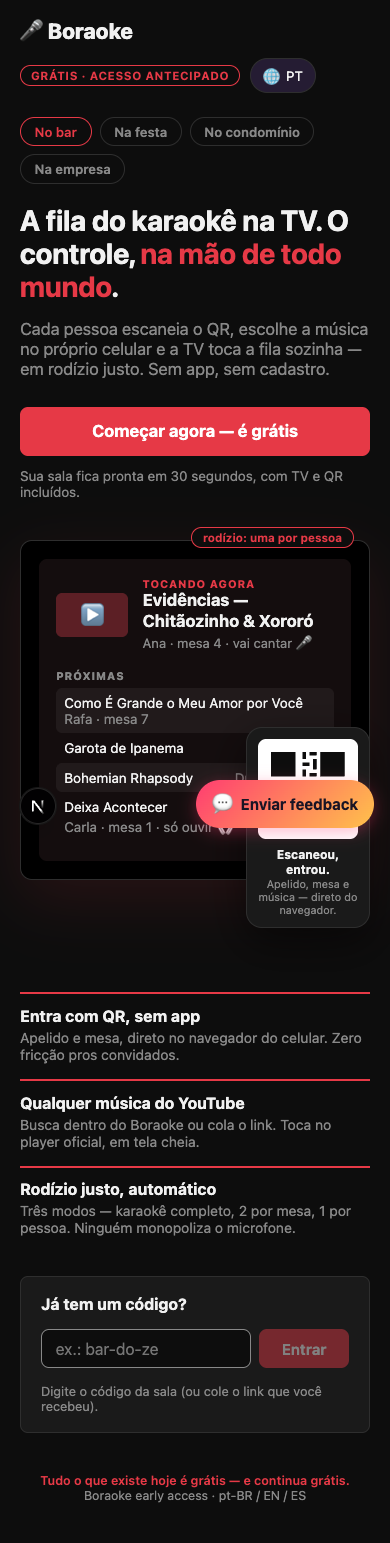
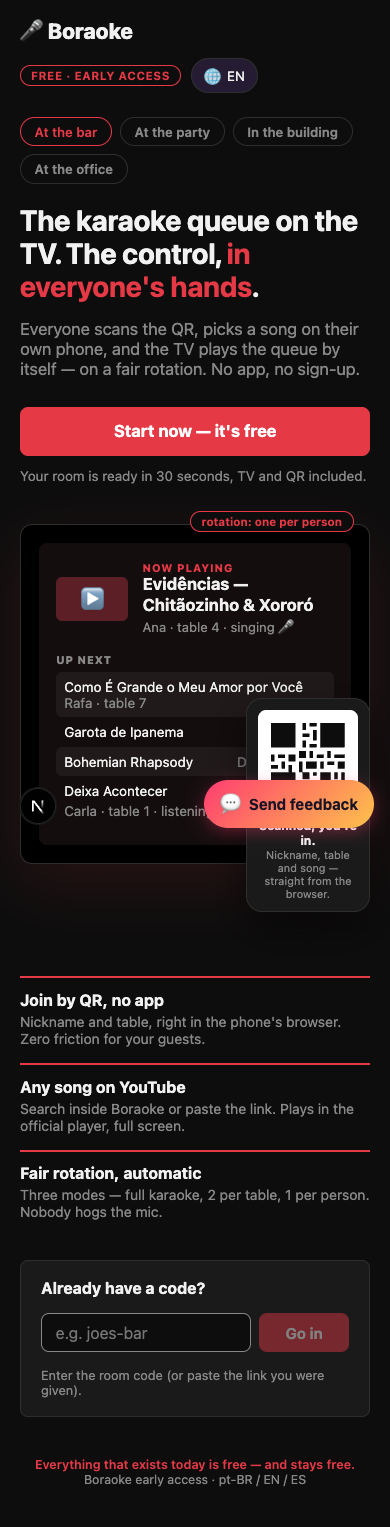
test(TICKET-69): re-verify phone-card nudge — up-next legibility partially fixed

diff --git a/work/reports/test/TICKET-69-app-tester.md b/work/reports/test/TICKET-69-app-tester.md
@@ -77,3 +77,42 @@ None blocking. One low-severity, pre-existing, out-of-scope observation:
 ## Summary
 
 Landing rebuild (Direction 2 "Demo vivo") is structurally and textually faithful to the approved mockup at both desktop and mobile breakpoints, in all three locales (pt-BR, EN, ES) with no leaked keys or untranslated pt-BR strings observed in EN/ES. No horizontal overflow at 320/390/1440px. CTA is above the fold at both tested viewports, targets `/new`, is keyboard-reachable in 2 tabs with a visible focus ring, and the landing page itself makes no YouTube network calls and renders no iframe. Saved-rooms round trip (create room → back to `/` → see it listed) and join-by-code flow both work as expected.
+
+## Re-verification after phone-card nudge (TICKET-69)
+
+Re-tested on `PORT=3181`, same worktree/branch, after the CSS follow-up in `app/page.module.css` (`.phone` bottom `-3.4rem` → `-4.75rem`, left `-2rem` → `-3rem`; `.stage` margin-bottom `2.75rem` → `5.5rem`). Verified `window.location.href` was `http://127.0.0.1:3181/...` immediately before and after every screenshot/measurement (the shared Playwright browser briefly showed a sibling agent's page — `http://localhost:3182/bar-boraoke-tour-especial/tv`, HTTP 500 — on one navigation before this run's first real capture; that stray page was never screenshotted and was immediately corrected by re-navigating to `127.0.0.1:3181/`).
+
+### Evidence overwritten
+1. `/Users/paulosalvatore/Documents/GitHub/boraoke/.worktrees/ticket-69/work/evidence/TICKET-69/landing-desktop-1440x900.png` — `/` at 1440x900, full page.
+2. `/Users/paulosalvatore/Documents/GitHub/boraoke/.worktrees/ticket-69/work/evidence/TICKET-69/desktop-cta-above-fold.png` — 1440x900 viewport-only.
+3. `/Users/paulosalvatore/Documents/GitHub/boraoke/.worktrees/ticket-69/work/evidence/TICKET-69/landing-mobile-390x844.png` — 390x844, full page.
+
+### Up-next title legibility vs. phone card (1440x900, precise DOM measurement)
+
+Phone card bounding box: `left 646.5, right 784.5, top 239.7, bottom 454.7` (px). Up-next title rows (`getBoundingClientRect()`, DOM `textContent` is the full untruncated string in all cases — any missing characters in the screenshot are purely visual occlusion by the opaque phone card, not text truncation):
+
+| Title | Row rect (left–right) | Row y-range | Horizontal px covered by phone card | % of title width covered | Visually hidden fragment |
+|---|---|---|---|---|---|
+| "Como É Grande o Meu Amor por Você" | 738.7–977.5 | 225.5–241.5 | ~0px (title bottom 241.5 vs phone top 239.7 → ≤1.8px hairline touch, not visible) | ~0% | none — fully legible |
+| "Garota de Ipanema" | 738.7–858.1 | 254.9–270.9 | 45.8px (738.7→784.5) | 38% | "Garota " (leading word fully hidden; visible text reads "de Ipanema") |
+| "Bohemian Rhapsody" | 738.7–867.5 | 284.4–300.4 | 45.8px | 36% | "Bohe" (visible text reads "…an Rhapsody") |
+| "Deixa Acontecer" | 738.7–841.9 | 313.8–335.8 | 45.8px | 44% | "Deixa A" (visible text reads "…contecer") |
+
+**Comparison to previous capture:** previously all four titles had ~70px hidden from the left edge. Now: title 1 ("Como É Grande…") is fully clear — a real, complete fix for that row. Titles 2–4 improved from ~70px to ~45.8px covered (a ~35–40% reduction), but the card's right edge (784.5px) still sits inside the text row for all three, hiding the title's leading word or word-fragment. In the screenshot this reads as "de Ipanema", "…an Rhapsody", "…contecer" — the song can usually still be inferred from the visible tail + context (numbers below Now Playing), but strictly the up-next list is not fully legible for 3 of 4 rows.
+
+### CTA above the fold (1440x900)
+`getBoundingClientRect().bottom` = **437.27** (previous capture: 436.64 — effectively unchanged, CTA sits in the left column above/independent of the `.stage`/`.phone` shift). Viewport height 900 → comfortably above the fold.
+
+### Horizontal overflow (`document.documentElement.scrollWidth` vs `window.innerWidth`)
+| Viewport | scrollWidth | innerWidth | Overflow? |
+|---|---|---|---|
+| 1440x900 | 1440 | 1440 | No |
+| 390x844 | 390 | 390 | No |
+| 320x800 | 320 | 320 | No |
+
+### Mobile (390x844)
+Unchanged and correct — matches the prior full-pass capture: header, wrapping pill row, headline, CTA, TV mock stacked below hero text with QR phone card overlapping its bottom-left corner, 3 bullets, join strip, footer. (Note, pre-existing and out of scope for this CSS nudge: the floating "Send feedback" widget bottom-right visually overlaps the tail of the up-next list — "Bohemian Rhapsody" and "Deixa Acontecer" rows and the phone-card caption — on this viewport; this is a site-wide chat widget unrelated to `.phone`/`.stage` and was present before this change too.)
+
+### Verdict: **PASS, with a residual follow-up**
+
+The nudge delivers a genuine, measurable improvement: the phone card no longer meaningfully touches the first up-next row, and its horizontal intrusion into rows 2–4 dropped by roughly a third (70px → 45.8px). CTA position, fold placement, and both breakpoints' overflow are all unaffected and clean. This is a real step forward, not a wash, so it is not a regression to block on. However the original defect — the phone card visually occluding up-next title text — is only partially resolved: 3 of 4 titles still lose their leading word/fragment behind the card at 1440x900. Recommend one more small nudge (a few more `rem` of `.phone` left offset, or trimming `.phone` width) if full legibility of all four rows is required before this ships; otherwise this is an acceptable, documented residual for a follow-up ticket.
